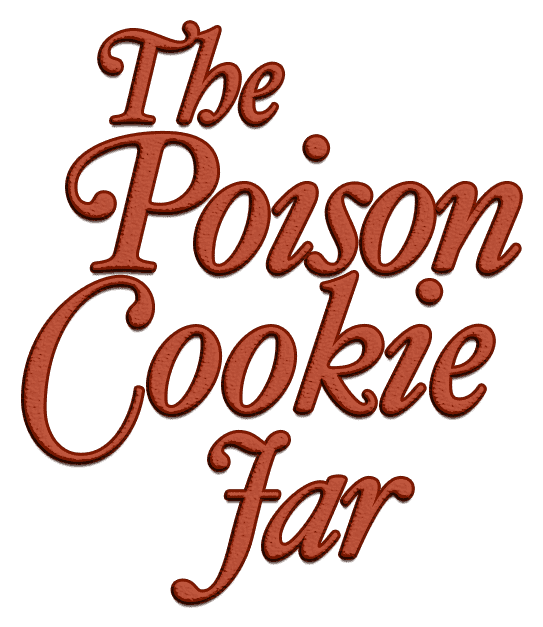
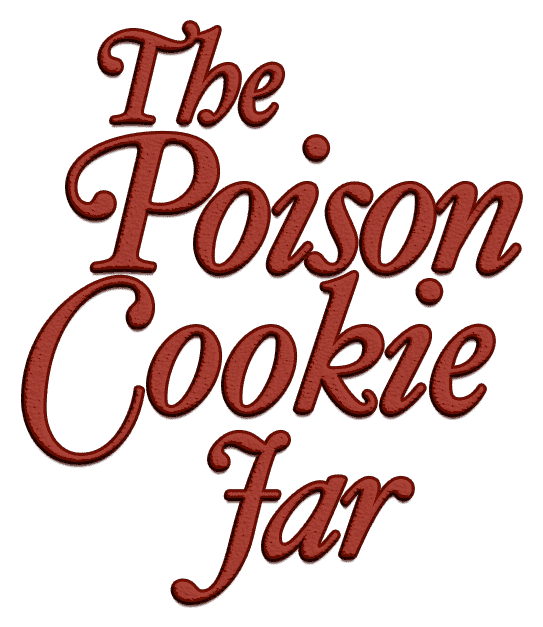
fixed ugly height bug + cookie mask

Changed region(s): [[0.7661, 0.6061, 0.7956, 0.6364]]

diff --git a/src/templates/cities/intro.js b/src/templates/cities/intro.js
@@ -24,7 +24,7 @@ React.memo(
       <Clouds dimensions={dimensions} />
       <Parallax speed="-2" dimensions={dimensions}>
         <Picture 
-          src={`${withPrefix('/')}img/cover.png`} 
+          src={`${withPrefix('/')}img/cover-optim.png`} 
           width="calc(85% + 50px)" 
           height="calc((100vh - 40px) * 1.2)" 
           fit="cover"
@@ -82,7 +82,7 @@ React.memo(
     setContainerCss(`min-height: calc((100vh - 40px) * 0.6)`)
     return (
       <React.Fragment>
-        <Parallax speed="0" dimensions={dimensions}>
+        <Parallax speed="2" dimensions={dimensions}>
           <Positioner x="0.35">
             <Postcard>
               <VideoPlayer
@@ -96,7 +96,10 @@ React.memo(
 )})
 , React.memo(({sectionIndex, dimensions, setContainerCss}) => (
         <React.Fragment>
-          <div css={css(`
+          <Link to="/cities/paris" css={css(`
+              display: flex;
+              justify-content: center;
+              align-items: center;
               font-family: 'IM Fell Double Pica', serif;
               font-weight: bold;
               text-rendering: optimizeLegibility;
@@ -106,9 +109,14 @@ React.memo(
                 flex-direction: column;
               }
           `)}  >
-                <video css={css(`border-radius: 50%; width: 200px;`)} autoPlay muted loop src={`${withPrefix('/')}img/john-eats.mp4`} />
-                <div css={css(`padding: 3.5vh;`)}><Link to="/cities/paris">Bite me</Link> to get to Paris</div>
-          </div>
+                <video css={css(`
+                  border-radius: 50%; 
+                  width: 200px;
+                  mask-image: url('${withPrefix('/')}img/cookie_mask.png');
+                  mask-size: 100% 100%;
+                `)} autoPlay muted loop src={`${withPrefix('/')}img/john-eats.mp4`} />
+                <div css={css(`padding: 3.5vh;`)}>Bite me to get to Paris</div>
+          </Link>
         </React.Fragment>
 ))
 ]

diff --git a/src/components/global.scss b/src/components/global.scss
@@ -1,5 +1,5 @@
 a{
-  color: #be553d;
+  color: #963324;
   pointer-events: all;
 }
 
@@ -390,28 +390,4 @@ html, body {
   }
 }
 
-.TVborder{
-  width: calc(100% - 5vh);
-  max-width: calc((100vh - 40px - 7vh - 10vh) / (802 / 1549));
-  position: relative;
 
-  &:after{
-    content: "";
-    display: block;
-    padding-top: calc(100% / (1549 / 802));
-  }
-
-  &__img{
-    position: absolute;
-    bottom:0;
-    left:0;
-    width: 119.121447028%;
-  }
-
-  .Video{
-    position: absolute;
-    bottom: 8.65%;
-    left: 5%;
-    width: 75%;
-  }
-}

diff --git a/src/components/ScrollSections.js b/src/components/ScrollSections.js
@@ -26,7 +26,7 @@ const ScrollSections = React.memo((
     const sectionSize = 
       windowWidth 
       && windowHeight 
-      && ((windowWidth/100*70) < (windowHeight/100*105)) 
+      && ((windowWidth/100*120) < (windowHeight/100*115)) 
       ? "120vw" : "115vh";
 
     return (
